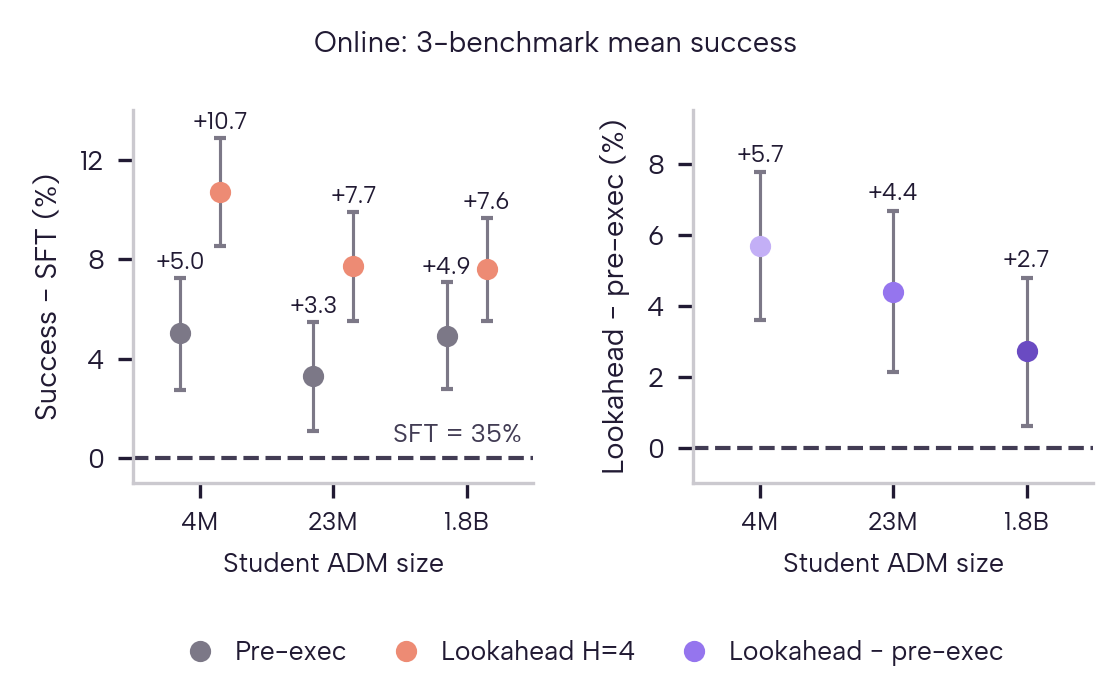
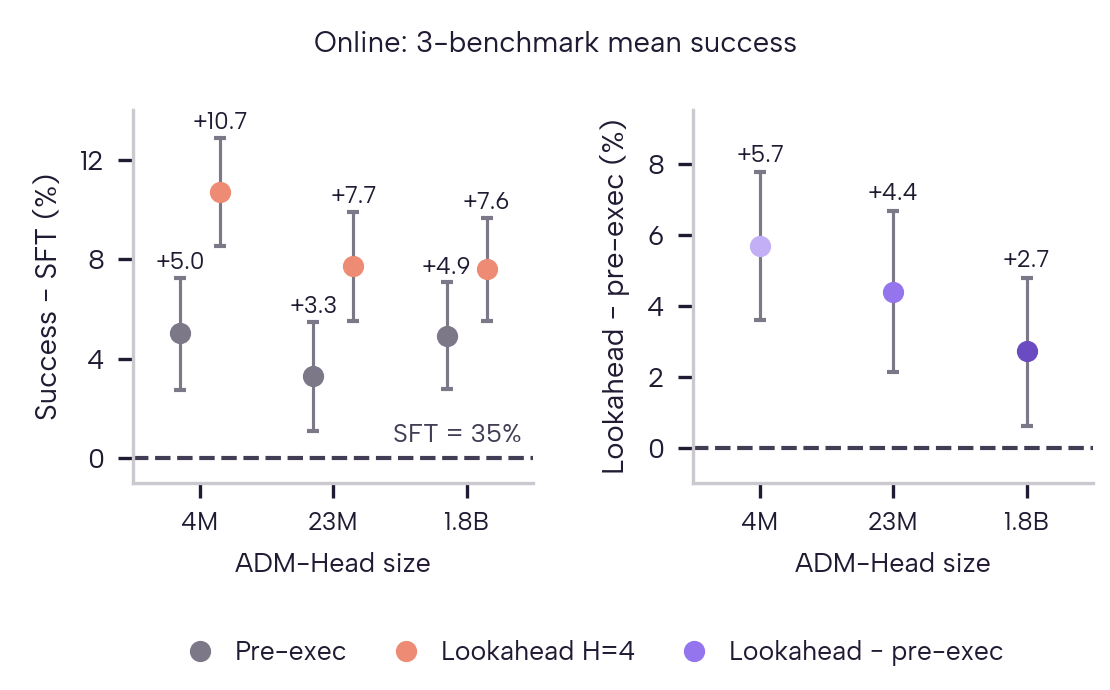
Label head-size comparison x axes ADM-Head size

Changed region(s): [[0.1838, 0.7913, 0.3982, 0.8522], [0.7045, 0.7913, 0.9189, 0.8522]]

diff --git a/openwebrl/docs/arm_results/rl_integration/selection-head-pre-vs-lookahead-paper-4m-1p8b-20261115-plot.py b/openwebrl/docs/arm_results/rl_integration/selection-head-pre-vs-lookahead-paper-4m-1p8b-20261115-plot.py
@@ -52,7 +52,7 @@ a1.set_ylim(-1, 14); a1.set_yticks([0, 4, 8, 12]); a1.set_ylabel("Success − SF
 a2.set_ylim(-1, 9.5); a2.set_yticks([0, 2, 4, 6, 8]); a2.set_ylabel("Lookahead − pre-exec (%)", fontsize=7, color=INK)
 a1.text(.97, .45, "SFT = 35%", transform=a1.get_yaxis_transform(),
         fontsize=6.2, color=MUTED, ha="right", va="bottom")
-a1.set_xlabel("Student ADM size", fontsize=6.5, color=INK); a2.set_xlabel("Student ADM size", fontsize=6.5, color=INK)
+a1.set_xlabel("ADM-Head size", fontsize=6.5, color=INK); a2.set_xlabel("ADM-Head size", fontsize=6.5, color=INK)
 handles = [Line2D([], [], marker="o", ls="", color=PRE, ms=4.1), Line2D([], [], marker="o", ls="", color=LOOK, ms=4.1),
            Line2D([], [], marker="o", ls="", color=PURPLES[1], ms=4.1)]
 fig.legend(handles, ["Pre-exec", "Lookahead H=4", "Lookahead − pre-exec"], frameon=False, fontsize=6.4,
